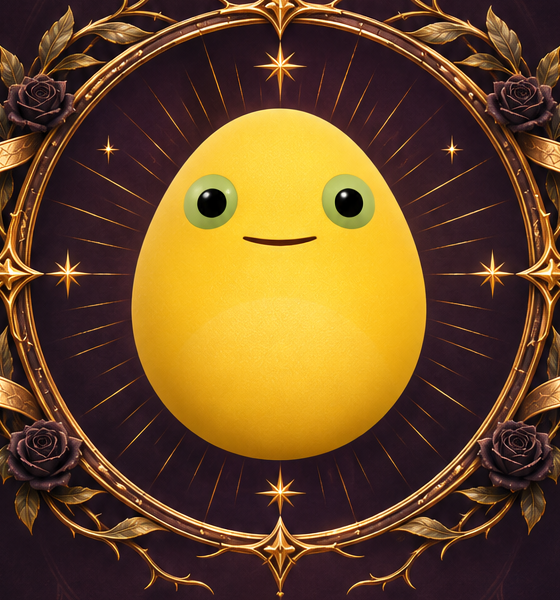
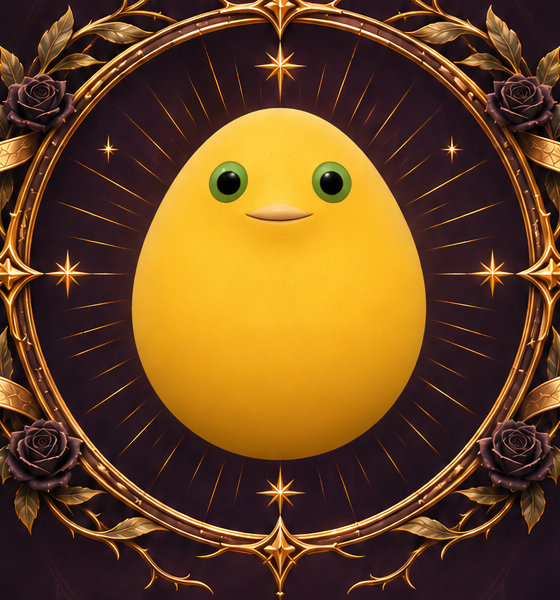
牌背换成新版奶蛋；修复选牌飞向牌位时透出目标框
- 牌背：按奶蛋标准参考重画中间的蛋，边框与徽章不变；重新导出 back / back-icon / 两张运动模糊贴图
- 牌位层在牌之上，飞行开始时先收起目标框（.slot.incoming）
- 运动模糊交叉淡入时牌背保持不透明，模糊层接近不透明后才淡出牌背
- 奶氏家族名单补充造型描述

diff --git a/src/main.js b/src/main.js
@@ -384,7 +384,9 @@ function mbTick() {
     c.bx = nbx < 0.01 ? 0 : nbx; c.by = nby < 0.01 ? 0 : nby;
     c.mbx.style.opacity = c.bx.toFixed(3);
     c.mby.style.opacity = c.by.toFixed(3);
-    c.backFace.style.opacity = (1 - Math.max(c.bx, c.by) * 0.9).toFixed(3);
+    // 牌背只在模糊层接近不透明时才淡出：中间阶段两层都半透明会叠出透明感，透出背后的牌位框
+    const m = Math.max(c.bx, c.by);
+    c.backFace.style.opacity = (1 - clamp((m - 0.6) / 0.4, 0, 1) * 0.9).toFixed(3);
   }
 }
 gsap.ticker.add(mbTick);
@@ -840,6 +842,8 @@ function pick(c) {
   const g = pickSlotGeom(S.slots.length)[c.slot];
   const s = g.w / BASE;
   gsap.set(c.el, { zIndex: 300 + c.slot });
+  // 牌位层在牌之上（为了让标签不被遮住），所以牌飞过去之前先把目标框收掉，否则框会画在飞行中的牌上面
+  slot.el.classList.add('incoming');
   audio.pick();
   const tl = gsap.timeline();
   tl.to(c.el, { x: g.x, duration: 0.85, ease: 'power2.inOut' }, 0)

diff --git a/src/style.css b/src/style.css
@@ -322,6 +322,7 @@ body.picking { touch-action: none; }                       /* 选牌时手指滑
   transition: opacity .4s;
 }
 .slot.filled .ghost-frame { opacity: 0; }
+.slot.incoming .ghost-frame { opacity: 0; transition-duration: .25s; }   /* 牌开始飞向这个牌位时先收起目标框 */
 .slot .label {
   position: absolute; left: 50%; top: 100%; transform: translateX(-50%);
   margin-top: 8px; white-space: nowrap; text-align: center; line-height: 1.45;

diff --git a/assets-src/naiwa_refs/README.md b/assets-src/naiwa_refs/README.md
@@ -49,27 +49,27 @@
 
 来源：[奶蛙官网 milkyfrog.com](https://milkyfrog.com/) 的「奶氏家族」一节（北京奶蛙科技）。热度和点评来自用户提供的一张网友「奶家热度榜」，原图还没有存进仓库，需要另外保存为 `family-tier-list.png`。
 
-官网的图片 CDN 有防盗链，不能直接下载；下面只记录官方图片的地址，要用的时候在浏览器里打开官网保存。
+官网的图片 CDN 有防盗链，不能用脚本直接下载；下面只记录官方图片的地址，要用的时候在浏览器里打开官网另存。造型描述根据官网截图整理（2026-11-27）。
 
-| No. | 名字 | 热度（网友榜） | 网友点评 | 官方图 |
-|---|---|---|---|---|
-| 00 | 奶蛙 | 火山 | 奶家的开创者；几乎每个角色的粉丝都会同时喜欢奶蛙 | [fam-00](https://static.milkyfrog.com/assets/family/fam-00-42d724a9.webp) |
-| 01 | 小奶蛙 | 烫 | 可爱；用它表情包的人特别多（= 本项目说的「奶蛙幼体」） | [fam-01](https://static.milkyfrog.com/assets/family/fam-01-cacf4573.webp) |
-| 02 | 奶蛋 | 烫 | 可爱；有些投票里能和奶蛙掰手腕（= 没有手脚的蛋形，本项目牌背） | [fam-02](https://static.milkyfrog.com/assets/family/fam-02-1129e7f1.webp) |
-| 03 | 奶鼠 | 热 | 和奶粉是欢喜冤家；贪吃 | [fam-03](https://static.milkyfrog.com/assets/family/fam-03-76e07cb5.webp) |
-| 04 | 奶粉 | 温 | 粉色；和奶鼠是欢喜冤家，热度比奶鼠低 | [fam-04](https://static.milkyfrog.com/assets/family/fam-04-a89db901.webp) |
-| 05 | 奶狗 | 热 | 有点蠢萌，很乐观，一直在笑 | [fam-05](https://static.milkyfrog.com/assets/family/fam-05-32552764.webp) |
-| 06 | 奶豆 | 热 | 可爱，体型很小，最近热度飙升 | [fam-06](https://static.milkyfrog.com/assets/family/fam-06-d3d910e9.webp) |
-| 07 | 奶屎 | 冷 | 可爱，但因为是「答辩」，喜欢的人会很喜欢 | [fam-07](https://static.milkyfrog.com/assets/family/fam-07-af612edf.webp) |
-| 08 | 豆奶 | 冷 | 混血品种 | [fam-08](https://static.milkyfrog.com/assets/family/fam-08-2f0c3243.webp) |
-| 09 | 奶鸡 | 温 | 可以生出奶蛋 | [fam-09](https://static.milkyfrog.com/assets/family/fam-09-944fd7ec.webp) |
-| 10 | 奶格玛 | — | 网友榜里叫「西格玛奶蛙」（肌肉版） | [fam-10](https://static.milkyfrog.com/assets/family/fam-10-63efc8cc.webp) |
-| 11 | 奶猫 | 温 | 比较冷门，可爱 | [fam-11](https://static.milkyfrog.com/assets/family/fam-11-336879ba.webp) |
-| 12 | 奶鱼 | 冷 | — | [fam-12](https://static.milkyfrog.com/assets/family/fam-12-7037f469.webp) |
-| 13 | 大耳奶兜 | — | 网友榜里没有 | [fam-13](https://static.milkyfrog.com/assets/family/fam-13-6f3e9bfa.webp) |
-| 14 | 奶神 | — | 网友榜里没有 | [fam-14](https://static.milkyfrog.com/assets/family/fam-14-29938d38.webp) |
-| 15 | 奶天使 | — | 网友榜里没有 | [fam-15](https://static.milkyfrog.com/assets/family/fam-15-4da30746.webp) |
-| 16 | 奶跳蛙 | — | 网友榜里没有 | [fam-16](https://static.milkyfrog.com/assets/family/fam-16-f0af86b0.webp) |
+| No. | 名字 | 造型 | 热度（网友榜） | 网友点评 | 官方图 |
+|---|---|---|---|---|---|
+| 00 | 奶蛙 | 梨形，侧身双手捧肚 | 火山 | 奶家的开创者；几乎每个角色的粉丝都会同时喜欢奶蛙 | [fam-00](https://static.milkyfrog.com/assets/family/fam-00-42d724a9.webp) |
+| 01 | 小奶蛙 | 圆胖小身体，张嘴笑，单脚抬起，短手张开 | 烫 | 可爱；用它表情包的人特别多（= 本项目说的「奶蛙幼体」） | [fam-01](https://static.milkyfrog.com/assets/family/fam-01-cacf4573.webp) |
+| 02 | 奶蛋 | 蛋形，没有手脚，绿眼小嘴 | 烫 | 可爱；有些投票里能和奶蛙掰手腕（= 没有手脚的蛋形，本项目牌背） | [fam-02](https://static.milkyfrog.com/assets/family/fam-02-1129e7f1.webp) |
+| 03 | 奶鼠 | 黄色，大圆耳朵，细长尾巴，举手 | 热 | 和奶粉是欢喜冤家；贪吃 | [fam-03](https://static.milkyfrog.com/assets/family/fam-03-76e07cb5.webp) |
+| 04 | 奶粉 | 粉色的奶蛙，白肚皮，叉腰 | 温 | 粉色；和奶鼠是欢喜冤家，热度比奶鼠低 | [fam-04](https://static.milkyfrog.com/assets/family/fam-04-a89db901.webp) |
+| 05 | 奶狗 | 黄色小狗，棕色垂耳，张嘴大笑 | 热 | 有点蠢萌，很乐观，一直在笑 | [fam-05](https://static.milkyfrog.com/assets/family/fam-05-32552764.webp) |
+| 06 | 奶豆 | 圆球豆子，只有大眼睛和嘴，没有手脚 | 热 | 可爱，体型很小，最近热度飙升 | [fam-06](https://static.milkyfrog.com/assets/family/fam-06-d3d910e9.webp) |
+| 07 | 奶屎 | 盘旋的便便造型，顶上长眼睛 | 冷 | 可爱，但因为是「答辩」，喜欢的人会很喜欢 | [fam-07](https://static.milkyfrog.com/assets/family/fam-07-af612edf.webp) |
+| 08 | 豆奶 | 人类小女孩，抱着一碗豆奶 | 冷 | 混血品种 | [fam-08](https://static.milkyfrog.com/assets/family/fam-08-2f0c3243.webp) |
+| 09 | 奶鸡 | 黄色的鸡，红鸡冠，奶蛙眼 | 温 | 可以生出奶蛋 | [fam-09](https://static.milkyfrog.com/assets/family/fam-09-944fd7ec.webp) |
+| 10 | 奶格玛 | 肌肉发达的奶蛙，托腮思考 | — | 网友榜里叫「西格玛奶蛙」（肌肉版） | [fam-10](https://static.milkyfrog.com/assets/family/fam-10-63efc8cc.webp) |
+| 11 | 奶猫 | 猫耳，趴着，奶蛙脸 | 温 | 比较冷门，可爱 | [fam-11](https://static.milkyfrog.com/assets/family/fam-11-336879ba.webp) |
+| 12 | 奶鱼 | 海豹般的身体，有鱼尾 | 冷 | — | [fam-12](https://static.milkyfrog.com/assets/family/fam-12-7037f469.webp) |
+| 13 | 大耳奶兜 | 白色，粉色内衬的长兔耳，奶油色肚皮 | — | 网友榜里没有 | [fam-13](https://static.milkyfrog.com/assets/family/fam-13-6f3e9bfa.webp) |
+| 14 | 奶神 | 全身发光，张开双臂悬浮 | — | 网友榜里没有 | [fam-14](https://static.milkyfrog.com/assets/family/fam-14-29938d38.webp) |
+| 15 | 奶天使 | 背后有白色翅膀，挥手 | — | 网友榜里没有 | [fam-15](https://static.milkyfrog.com/assets/family/fam-15-4da30746.webp) |
+| 16 | 奶跳蛙 | 扁平的跳蛙，更像真实的青蛙 | — | 网友榜里没有 | [fam-16](https://static.milkyfrog.com/assets/family/fam-16-f0af86b0.webp) |
 
 网友榜里还有、官网没有收录的：奶兔（冷）、奶头、奶茶（茶杯造型）、奶瓶。
 
